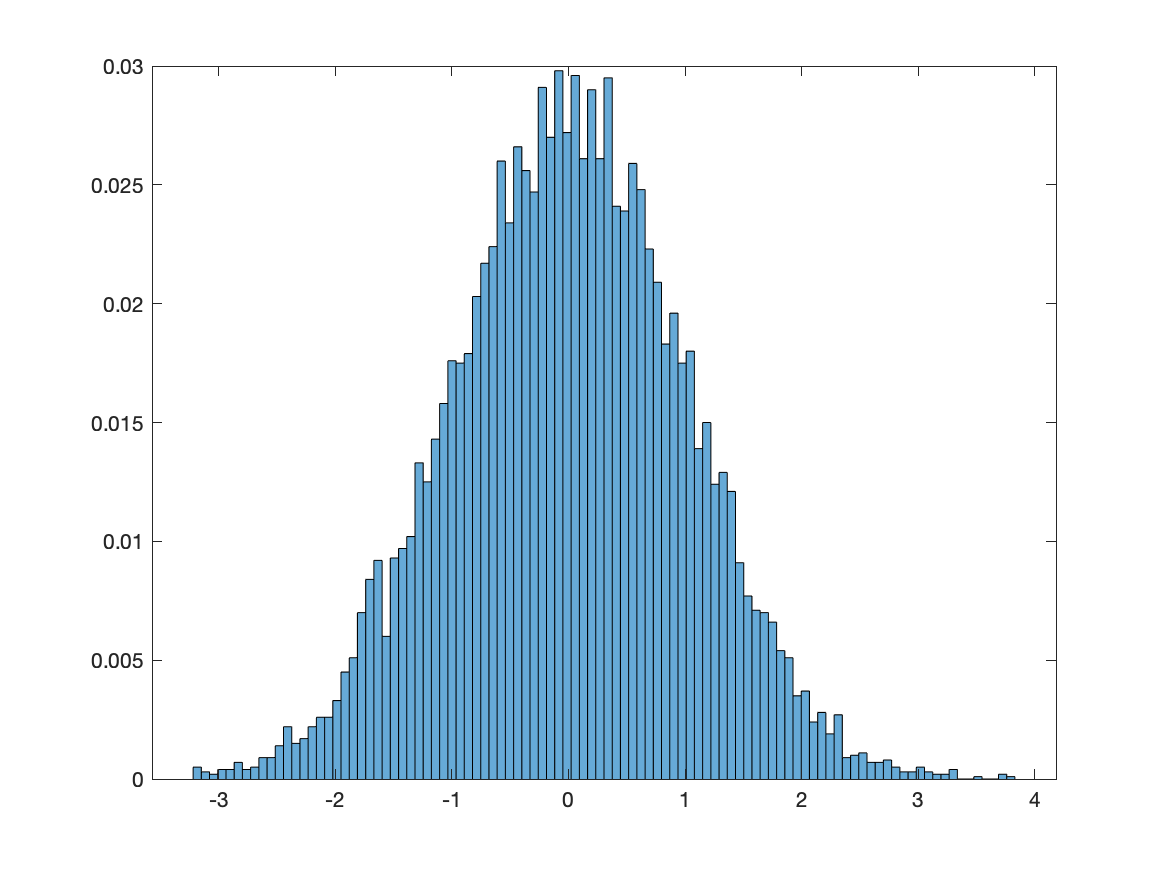
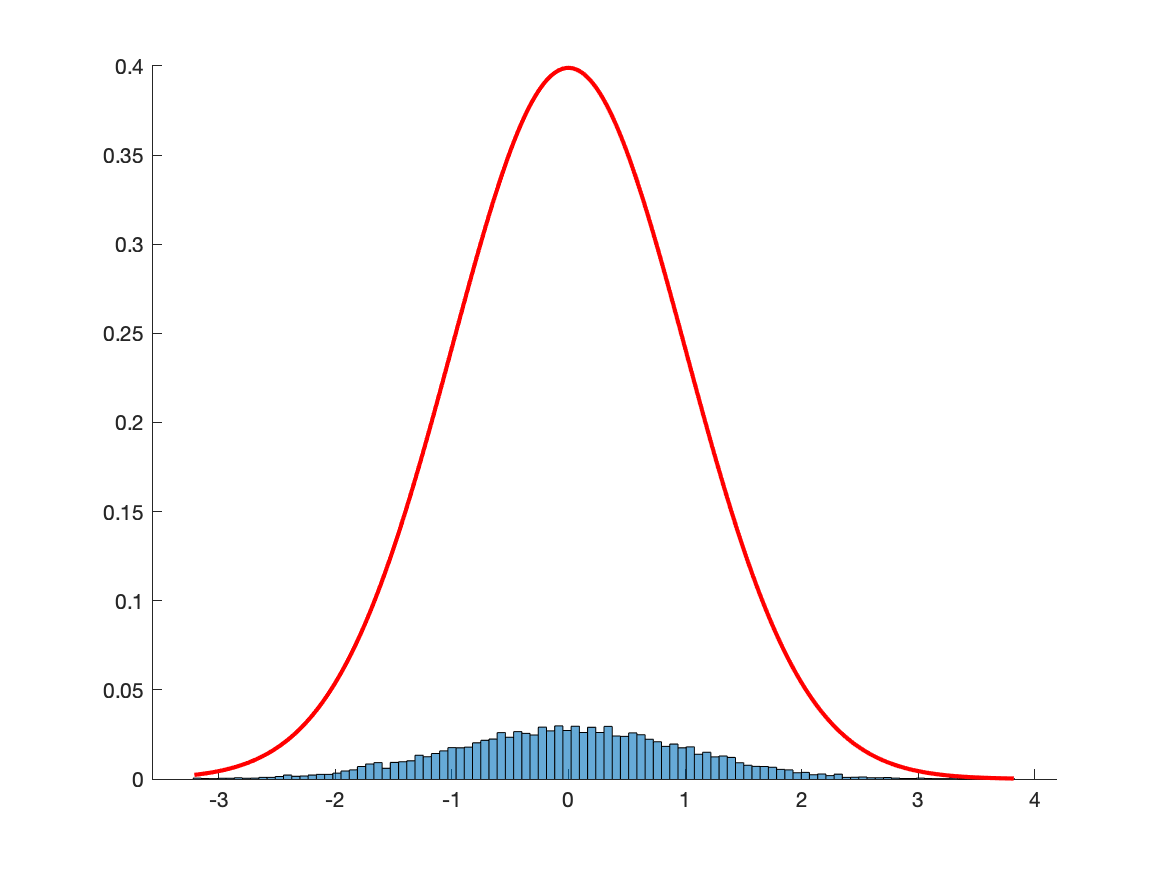
Update

diff --git a/setup.m b/setup.m
@@ -22,8 +22,8 @@ addpath("/Users/fengguangjie/Documents/GitHub/StochasticSim")
 % [vecX, vecProbClass] = distGeoPDF(vecRanNumNorm_2, 0.25, 100, 'figHistGeoPDF.png');
 % vecX_dice = distDicePDF(vecRanNumNorm_2, 6, 'figHistDice.png');
 % [ vecX, vecProbClass ] = distCrudePDF(vecRanNumNorm_2, [0 0.1 0.3 0.6 1], 'figHistCrudePDF.png');  % [0:0.1:1]
-% [vecX, vecProbClass] = distExpPdf(vecRanNumNorm_2, 0.5, 100, 'figHistExp.png');
+[vecX, vecProbClass] = distExpPdf(vecRanNumNorm_2, 0.5, 100, 'figHistExp.png');
 % vecTriU2 = cos(2 * pi * vecRanNumNorm_3);
 % [vecX, vecProbClass] = distNormPdf(vecRanNumNorm_2, vecTriU2, 100, 'figHistNorm.png');
-[ vecX, vecProbClass ] = distParetoPdf(vecRanNumNorm_2, 1, 2, 100, 'figHistPareto1.png');
-[ vecX, vecProbClass ] = distParetoPdf(vecRanNumNorm_2, 1, 4, 100, 'figHistPareto2.png');
+% [ vecX, vecProbClass ] = distParetoPdf(vecRanNumNorm_2, 1, 2, 100, 'figHistPareto1.png');
+% [ vecX, vecProbClass ] = distParetoPdf(vecRanNumNorm_2, 1, 4, 100, 'figHistPareto2.png');

diff --git a/distParetoPdf.m b/distParetoPdf.m
@@ -5,6 +5,11 @@ function [ vecX, vecProbClass ] = distParetoPdf( vecU, beta, k, numClass, strFig
         vecX(i) = beta * (vecU(i)^(- 1 / k) - 1);
     end
     vecXstd = [min(vecX):0.01:max(vecX)];
-    vecYstd = gppdf(vecXstd, 1 / k, beta / k, 0);
+    vecYstd = vecXstd;
+    for i = 1:length(vecXstd)
+        % vecYstd(i) = k * beta^k / vecXstd(i)^(k + 1);
+        vecYstd(i) = 1 / beta * (1 + vecXstd(i) / beta)^(-k + 1);
+    end
+    % vecYstd = gppdf(vecXstd, 1 / k, beta / k, 0);
     [vecProbClass] = plotHist(vecX, vecXstd, vecYstd, numClass, strFigName);
 end

diff --git a/plotHist.m b/plotHist.m
@@ -4,7 +4,7 @@ function [ vecProbClass ] = plotHist( vecResult, vecXstd, vecYstd, numClass, str
     hold on
     figHist = histogram(vecResult, 'NumBins', numClass, 'Normalization', 'probability');
     vecProbClass = figHist.Values;
-    figHist = plot(vecXstd, vecYstd, 'r', 'LineWidth', 2)
+    figHist = plot(vecXstd, vecYstd, 'r', 'LineWidth', 2);
     hold off
     saveas(figHist, [pwd '/images/' strFigName]);
 end

diff --git a/distNormPdf.m b/distNormPdf.m
@@ -4,5 +4,7 @@ function [ vecX, vecProbClass ] = distNormPdf( vecU1, vecTriU2, numClass, strFig
     for i = 1:numU
         vecX(i) = sqrt(-2 * log(vecU1(i))) * vecTriU2(i);
     end
-    [vecProbClass] = plotHist(vecX, numClass, strFigName);
+    vecXstd = [min(vecX):0.01:max(vecX)];
+    vecYstd = normpdf(vecXstd, 0, 1);
+    [vecProbClass] = plotHist(vecX, vecXstd, vecYstd, numClass, strFigName);
 end

diff --git a/distExpPdf.m b/distExpPdf.m
@@ -4,5 +4,7 @@ function [ vecX, vecProbClass ] = distExpPdf( vecU, lambda, numClass, strFigName
     for i = 1:numU
         vecX(i) = - log(vecU(i)) / lambda;
     end
-    [vecProbClass] = plotHist(vecX, numClass, strFigName);
+    vecXstd = [min(vecX):0.01:max(vecX)];
+    vecYstd = exppdf(vecXstd, 1 / lambda);
+    [vecProbClass] = plotHist(vecX, vecXstd, vecYstd, numClass, strFigName);
 end
